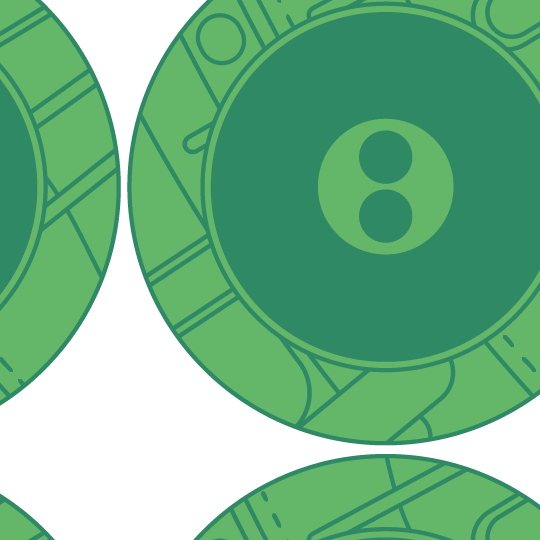
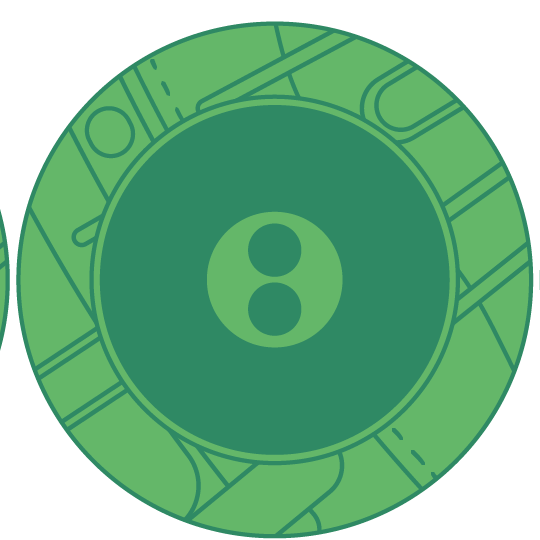
layout

diff --git a/pieces/build_layout.py b/pieces/build_layout.py
@@ -31,17 +31,76 @@ try: sc.render.engine = "BLENDER_EEVEE_NEXT"
 except Exception: sc.render.engine = "BLENDER_EEVEE"
 try: sc.eevee.taa_render_samples = SAMPLES
 except Exception: pass
-sc.render.resolution_x = int(os.environ.get("RESX", "1920")); sc.render.resolution_y = int(os.environ.get("RESY", "1200"))   # landscape
+sc.render.resolution_x = int(os.environ.get("RESX", "1920")); sc.render.resolution_y = int(os.environ.get("RESY", "1000"))   # wider landscape (~1.92:1)
 try: sc.view_settings.view_transform = 'Standard'
 except Exception: pass
-w = bpy.data.worlds.new("W"); sc.world = w; w.use_nodes = True
-w.node_tree.nodes["Background"].inputs[0].default_value = (0.05, 0.055, 0.065, 1.0)
+# ============ lighting / colour VARIANTS (experiments) ============
+# A = original bright 3-sun (the fallback). B = +perlin colour clouds (box palette). C = +gradient backdrop.
+# D = bright key + coloured box rims + clouds + gradient. E = stronger clouds. Pieces stay foreground-bright.
+VARIANT = os.environ.get("VARIANT", "A")
+ANIM = os.environ.get("ANIM", "")                            # non-empty -> render the "box ascends" animation
+CLOUDMUL = float(os.environ.get("CLOUDMUL", "1.0"))           # global cloud-strength tuner
+BOXCOLS = [(0.30, 0.62, 0.68), (0.86, 0.26, 0.46), (0.97, 0.72, 0.26)]   # teal / magenta / gold, from the box cover
 def C(): return bpy.context.collection
-for nm, en, rot in [("Key", 4.8, (math.radians(44), math.radians(10), math.radians(38))),
-                    ("Fill", 2.1, (math.radians(58), 0, math.radians(-122))),
-                    ("Rim", 2.8, (math.radians(116), 0, math.radians(180)))]:
-    d = bpy.data.lights.new(nm, 'SUN'); d.energy = en; d.angle = math.radians(5)
-    o = bpy.data.objects.new(nm, d); C().objects.link(o); o.rotation_euler = rot
+def sun(nm, en, rx, rz, col=(1,1,1)):
+    d = bpy.data.lights.new(nm,'SUN'); d.energy=en; d.angle=math.radians(4); d.color=col
+    o = bpy.data.objects.new(nm,d); C().objects.link(o); o.rotation_euler=(math.radians(rx),0,math.radians(rz)); return o
+def add_clouds(colors, strength):                             # sparse FAT vapor blobs (box colours); subtle edge-preference, board/box mostly clean
+    bpy.ops.mesh.primitive_cube_add(size=1, location=(0, 250, 170))
+    cube = bpy.context.active_object; cube.name="ColourClouds"; cube.scale=(1750,1500,350); cube.display_type='WIRE'   # extends forward -> vapor reaches frame bottom
+    m=bpy.data.materials.new("clouds"); m.use_nodes=True; nt=m.node_tree; nt.nodes.clear()
+    out=nt.nodes.new("ShaderNodeOutputMaterial"); tc=nt.nodes.new("ShaderNodeTexCoord")
+    av=nt.nodes.new("ShaderNodeValue"); av.outputs[0].default_value=1.0   # global anim multiplier (keyframed in ANIM: nothing -> full force)
+    # subtle edge-preference: vapor thins toward the cube centre (board/box), fills toward the edges (smooth, ~0.2 floor so no hard hole)
+    fsub=nt.nodes.new("ShaderNodeVectorMath"); fsub.operation='SUBTRACT'; fsub.inputs[1].default_value=(0.5,0.5,0.5); nt.links.new(tc.outputs['Generated'], fsub.inputs[0])
+    fflat=nt.nodes.new("ShaderNodeVectorMath"); fflat.operation='MULTIPLY'; fflat.inputs[1].default_value=(1.0,1.0,0.0); nt.links.new(fsub.outputs['Vector'], fflat.inputs[0])
+    flen=nt.nodes.new("ShaderNodeVectorMath"); flen.operation='LENGTH'; nt.links.new(fflat.outputs['Vector'], flen.inputs[0])
+    fall=nt.nodes.new("ShaderNodeMapRange"); fall.inputs['From Min'].default_value=0.10; fall.inputs['From Max'].default_value=0.42
+    fall.inputs['To Min'].default_value=0.20; fall.inputs['To Max'].default_value=1.0; nt.links.new(flen.outputs['Value'], fall.inputs['Value'])
+    prev=None
+    for i,col in enumerate(colors):
+        mp=nt.nodes.new("ShaderNodeMapping"); mp.inputs['Location'].default_value=(i*4.0, i*2.5, i*1.5)   # big distinct offset -> colours spread
+        nt.links.new(tc.outputs['Generated'], mp.inputs['Vector'])
+        nz=nt.nodes.new("ShaderNodeTexNoise"); nz.inputs['Scale'].default_value=2.0; nz.inputs['Detail'].default_value=2.0
+        nt.links.new(mp.outputs['Vector'], nz.inputs['Vector'])
+        mr=nt.nodes.new("ShaderNodeMapRange"); mr.inputs['From Min'].default_value=0.55; mr.inputs['From Max'].default_value=0.80
+        nt.links.new(nz.outputs['Fac'], mr.inputs['Value'])
+        mf=nt.nodes.new("ShaderNodeMath"); mf.operation='MULTIPLY'; nt.links.new(mr.outputs['Result'], mf.inputs[0]); nt.links.new(fall.outputs['Result'], mf.inputs[1])   # mask x edge-falloff
+        mfa=nt.nodes.new("ShaderNodeMath"); mfa.operation='MULTIPLY'; nt.links.new(mf.outputs['Value'], mfa.inputs[0]); nt.links.new(av.outputs[0], mfa.inputs[1])   # x anim multiplier
+        dm=nt.nodes.new("ShaderNodeMath"); dm.operation='MULTIPLY'; dm.inputs[1].default_value=0.0032*strength; nt.links.new(mfa.outputs['Value'], dm.inputs[0])
+        es=nt.nodes.new("ShaderNodeMath"); es.operation='MULTIPLY'; es.inputs[1].default_value=0.0006*strength; nt.links.new(mfa.outputs['Value'], es.inputs[0])
+        pv=nt.nodes.new("ShaderNodeVolumePrincipled")
+        pv.inputs['Color'].default_value=(col[0],col[1],col[2],1.0); pv.inputs['Emission Color'].default_value=(col[0],col[1],col[2],1.0)
+        nt.links.new(dm.outputs['Value'], pv.inputs['Density']); nt.links.new(es.outputs['Value'], pv.inputs['Emission Strength'])
+        if prev is None: prev=pv
+        else:
+            ad=nt.nodes.new("ShaderNodeAddShader"); nt.links.new(prev.outputs[0],ad.inputs[0]); nt.links.new(pv.outputs[0],ad.inputs[1]); prev=ad
+    nt.links.new(prev.outputs[0], out.inputs['Volume']); cube.data.materials.append(m)
+    for attr,val in [("volumetric_start",30),("volumetric_end",6500),("volumetric_samples",80),("use_volumetric_lights",True)]:
+        try: setattr(sc.eevee, attr, val)
+        except Exception: pass
+    return cube, av
+
+w = bpy.data.worlds.new("W"); sc.world = w; w.use_nodes = True
+if VARIANT in ("C","D","E"):                                  # deep colour-gradient backdrop ("another reality")
+    nt=w.node_tree; nt.nodes.clear()
+    wo=nt.nodes.new("ShaderNodeOutputWorld"); wb=nt.nodes.new("ShaderNodeBackground"); wr=nt.nodes.new("ShaderNodeValToRGB")
+    wr.color_ramp.elements[0].color=(0.012,0.045,0.060,1.0); wr.color_ramp.elements[1].color=(0.060,0.012,0.085,1.0)
+    wsx=nt.nodes.new("ShaderNodeSeparateXYZ"); wtc=nt.nodes.new("ShaderNodeTexCoord")
+    nt.links.new(wtc.outputs['Window'], wsx.inputs[0]); nt.links.new(wsx.outputs['Y'], wr.inputs['Fac'])
+    nt.links.new(wr.outputs['Color'], wb.inputs['Color']); nt.links.new(wb.outputs[0], wo.inputs['Surface'])
+else:
+    w.node_tree.nodes["Background"].inputs[0].default_value = (0.05, 0.055, 0.065, 1.0)
+
+if VARIANT == "D":                                           # bright key + coloured box rims (pieces stay bright)
+    sun("Key", 5.0, 44, 40, (0.99,0.98,0.96)); sun("Fill", 2.4, 58, -120, (1.0,0.97,0.93))
+    sun("RimT", 3.0, 118, 150, BOXCOLS[0]); sun("RimM", 2.6, 120, 216, BOXCOLS[1])
+else:                                                        # original bright 3-sun -> pieces foreground
+    sun("Key", 4.8, 44, 38); sun("Fill", 2.1, 58, -122); sun("Rim", 2.8, 116, 180)
+
+CLOUD = {"A":0.0, "B":0.6, "C":0.85, "D":1.1, "E":1.7}.get(VARIANT, 0.0) * CLOUDMUL   # vapor-blob strength multiplier
+cloud_av = None
+if CLOUD > 0 or ANIM: _, cloud_av = add_clouds(BOXCOLS, 1.8 if ANIM else CLOUD)   # ANIM builds full-force, keyframes the ramp
 
 def colmat(name, rgb, rough=0.5):
     m = bpy.data.materials.new(name); m.use_nodes = True
@@ -65,7 +124,7 @@ def imgmat(name, path, shadeless=False):
 
 # ---------------- table ----------------
 me = bpy.data.meshes.new("T"); o = bpy.data.objects.new("T", me); C().objects.link(o)
-s = 3000; me.from_pydata([(-s,-s,0),(s,-s,0),(s,s,0),(-s,s,0)], [], [(0,1,2,3)]); me.update()
+s = 6000; me.from_pydata([(-s,-s,0),(s,-s,0),(s,s,0),(-s,s,0)], [], [(0,1,2,3)]); me.update()   # large -> far edge (horizon) off-frame
 me.materials.append(colmat("table", (0.11, 0.12, 0.14), 0.85)); o.location = (0, 0, -0.2)
 
 # ---------------- templates ----------------
@@ -137,9 +196,9 @@ def standing_box(name, loc, S, H, cover, wrap):
 # OUTER RING = 5 positions; the MIDDLE ONE is left BLANK. The box is placed independently, closer to
 # the board (in front of the blank middle). positions: rulebook 150, diagrams 120, [90 blank],
 # mutations 60, power board 30 (off to the side at the end).
-ROUT = 680                                                    # ring pushed out a bit (buffer between components; power not occluded)
+ROUT = 770                                                    # ring pushed further out (more buffer; clears the pieces)
 def ring(deg): th = math.radians(deg); return ROUT*math.cos(th), ROUT*math.sin(th), th - math.radians(90)
-RDIAG = 680                                                   # diagrams + mutations: same ring radius as rulebook/power (centered)
+RDIAG = 770                                                   # diagrams + mutations: same ring radius as rulebook/power (centered)
 def ring_arc(prefix, paths, center_deg, step_deg, r, radius=None, crop=1.0):   # cards along the concentric arc (radially aligned)
     rad = RDIAG if radius is None else radius; nn = len(paths)
     for k, p in enumerate(paths):
@@ -147,7 +206,7 @@ def ring_arc(prefix, paths, center_deg, step_deg, r, radius=None, crop=1.0):   #
         disc_art(f"{prefix}_{k}", p, (rad*math.cos(a), rad*math.sin(a), 1.2 + k*0.3),
                  r, rotz=a - math.radians(90), h=1.0, shadeless=True, crop=crop)
 
-standing_box("box", (0, 470, 0), 240, 72, f"{ASSETS}/box_top.png", f"{ASSETS}/box_wrap.png")   # independent, closer to board
+box_ob = standing_box("box", (0, 470, 14), 240, 72, f"{ASSETS}/box_top.png", f"{ASSETS}/box_wrap.png")   # raised slightly so the cover byline clears the table
 
 rbx, rby, rir = ring(138)                                      # rulebook (left end; ring span reduced so it's in frame)
 bm = bpy.data.meshes.new("book"); book = bpy.data.objects.new("book", bm); C().objects.link(book)
@@ -197,29 +256,55 @@ for deg, what in ARC:
         for c in range(4):
             wx, wy, prot = ppos(c - 1.5, (r - 1)*44)
             dup(TPL[ptype], f"{pl}_{ptype}_{c}", pmat, (wx, wy, ELEV), prot, PSCALE)
-    for k in range(5):                                        # 5 platforms stacked (printed dotted-token art, lit, centered+clipped)
+    for k in range(5):                                        # 5 platforms stacked (dotted-token art), beside each set (centered crop)
         wx, wy, prot = ppos(-2.7, 0)
-        disc_art(f"{pl}_plat_{k}", f"{LA}/plats/{pl}.png", (wx, wy, 1.0+k*2.4), SPACE_R, rotz=prot, h=2.2, crop=0.82, shadeless=False)
+        disc_art(f"{pl}_plat_{k}", f"{LA}/plats/{pl}.png", (wx, wy, 1.0+k*2.4), SPACE_R, rotz=prot, h=2.2, crop=0.8, shadeless=False)
 
 # ---------------- mutation cards fanned up top, in the back gap ----------------
-mcards = sorted(glob.glob(f"{LA}/cards/card_*.png"))         # mutations: TWO rows STRADDLING the ring radius (centered, not pushed out)
-h2 = (len(mcards) + 1)//2
-ring_arc("mut0", mcards[:h2], 42, 2.6, 34, radius=RDIAG - 38, crop=0.9)
-ring_arc("mut1", mcards[h2:], 42, 2.8, 34, radius=RDIAG + 38, crop=0.9)
+mcards = sorted(glob.glob(f"{LA}/cards/card_*.png"))         # mutations: THREE rows straddling the ring radius (shorter span, clears power board)
+t3 = (len(mcards) + 2)//3
+ring_arc("mut0", mcards[:t3],     42, 2.7, 34, radius=RDIAG - 54, crop=0.9)
+ring_arc("mut1", mcards[t3:2*t3], 42, 2.7, 34, radius=RDIAG,      crop=0.9)
+ring_arc("mut2", mcards[2*t3:],   42, 2.9, 34, radius=RDIAG + 54, crop=0.9)
 
 # ---------------- camera: tighter, lower (box more head-on) ----------------
-cam_d = bpy.data.cameras.new("Cam"); cam_d.lens = 58; cam_d.clip_end = 14000   # zoomed in -> scene scaled up, fills the frame
+cam_d = bpy.data.cameras.new("Cam"); cam_d.lens = 48; cam_d.clip_end = 14000
 cam = bpy.data.objects.new("Cam", cam_d); C().objects.link(cam); sc.camera = cam
-cam.rotation_mode = 'QUATERNION'
-# camera as a PHYSICAL OBJECT: HORIZ in front of the scene (-Y), at height CAMZ, aimed at the scene.
-# lower CAMZ = camera moves straight DOWN = more head-on with the box + content rises in frame.
-tgt = Vector((0, 150, 72))                                     # camera lower (CAMZ) + aim tipped UP to compensate -> stays centered, more head-on
-HORIZ, CAMZ = 1620, 560
-loc = Vector((0, tgt.y - HORIZ, CAMZ))
-cam.location = loc; cam.rotation_quaternion = (tgt - loc).to_track_quat('-Z', 'Y')
-
 sc.render.image_settings.file_format = 'PNG'
-fr = int(os.environ.get("FRAME", "0"))
-sc.render.filepath = f"{FR}/single_{fr:04d}"
-bpy.ops.render.render(write_still=True)
-print("layout done ->", sc.render.filepath)
+
+if ANIM:
+    # "box ascends to godhood": board-centre close-up -> orbit out to the hero shot -> push into the glowing box
+    aim = bpy.data.objects.new("aim", None); C().objects.link(aim)
+    tcon = cam.constraints.new('TRACK_TO'); tcon.target = aim; tcon.track_axis='TRACK_NEGATIVE_Z'; tcon.up_axis='UP_Y'
+    KEYS = [   # (frame, cam_loc, aim_loc)
+        (0,   (55, 15, 80),     (0, 0, 8)),      # extreme close-up on the red board centre
+        (80,  (700, -650, 400), (0, 110, 45)),   # zoom out + orbit (continuous rotate)
+        (165, (0, -1470, 505),  (0, 150, 72)),   # HERO shot
+        (255, (-240, -540, 350),(0, 470, 165)),  # swing toward the box
+        (340, (0, 95, 215),     (0, 470, 165)),  # box fills the frame (title; no surrounding scene)
+    ]
+    for fr, cl, al in KEYS:
+        cam.location = cl; cam.keyframe_insert('location', frame=fr)
+        aim.location = al; aim.keyframe_insert('location', frame=fr)
+    if cloud_av:                                  # vapor: nothing -> subtle (hero) -> full force
+        for fr, v in [(0,0.0),(165,0.4),(340,1.0)]:
+            cloud_av.outputs[0].default_value=v; cloud_av.outputs[0].keyframe_insert('default_value', frame=fr)
+    bmat = box_ob.data.materials[0]; bnt = bmat.node_tree   # box glow ramp (legible at the end)
+    bt = next((n for n in bnt.nodes if n.type=='TEX_IMAGE'), None); bb = next((n for n in bnt.nodes if n.type=='BSDF_PRINCIPLED'), None)
+    if bt and bb:
+        try: bnt.links.new(bt.outputs['Color'], bb.inputs['Emission Color'])
+        except Exception: pass
+        for fr, v in [(0,0.0),(165,0.0),(255,1.2),(340,4.5)]:
+            bb.inputs['Emission Strength'].default_value=v; bb.inputs['Emission Strength'].keyframe_insert('default_value', frame=fr)
+    sc.render.fps = 24; sc.frame_start = 0; sc.frame_end = 340
+    sc.render.filepath = f"{FR}/anim_"
+    bpy.ops.render.render(animation=True)
+    print("anim done ->", sc.render.filepath)
+else:
+    cam.rotation_mode = 'QUATERNION'
+    tgt = Vector((0, 150, 72)); HORIZ, CAMZ = 1620, 560
+    loc = Vector((0, tgt.y - HORIZ, CAMZ)); q = (tgt - loc).to_track_quat('-Z', 'Y'); loc.z -= 55
+    cam.location = loc; cam.rotation_quaternion = q
+    sc.render.filepath = f"{FR}/var_{VARIANT}"
+    bpy.ops.render.render(write_still=True)
+    print("layout done ->", sc.render.filepath)

diff --git a/pieces/build_play_real.py b/pieces/build_play_real.py
@@ -24,6 +24,8 @@ try: sc.render.engine='BLENDER_EEVEE_NEXT'
 except Exception: sc.render.engine='BLENDER_EEVEE'
 try: sc.eevee.taa_render_samples=6
 except Exception: pass
+try: sc.view_settings.view_transform='Standard'   # match the clips/layout -- not AgX (the milky washed-out look)
+except Exception: pass
 sc.render.resolution_x=sc.render.resolution_y=600
 w=bpy.data.worlds.new("W"); sc.world=w; w.use_nodes=True; w.node_tree.nodes["Background"].inputs[0].default_value=(0.45,0.46,0.5,1)
 for nm,en,rot in [("S",4.2,(math.radians(52),math.radians(8),math.radians(30))),("S2",1.5,(math.radians(64),0,math.radians(-120)))]:
